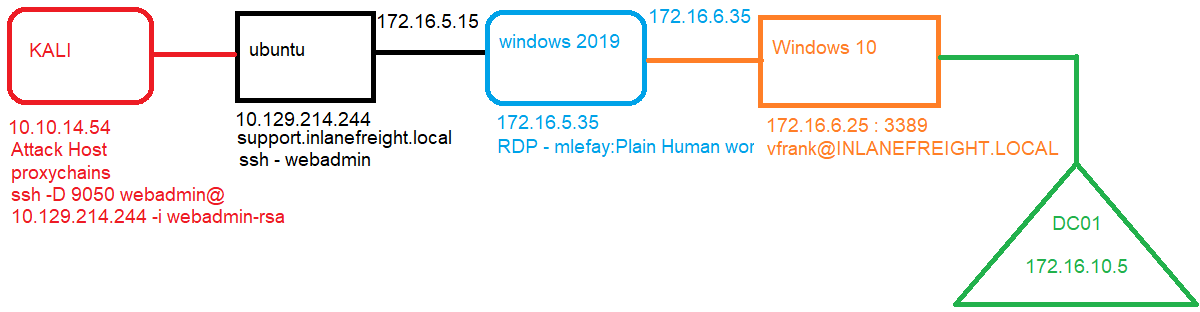
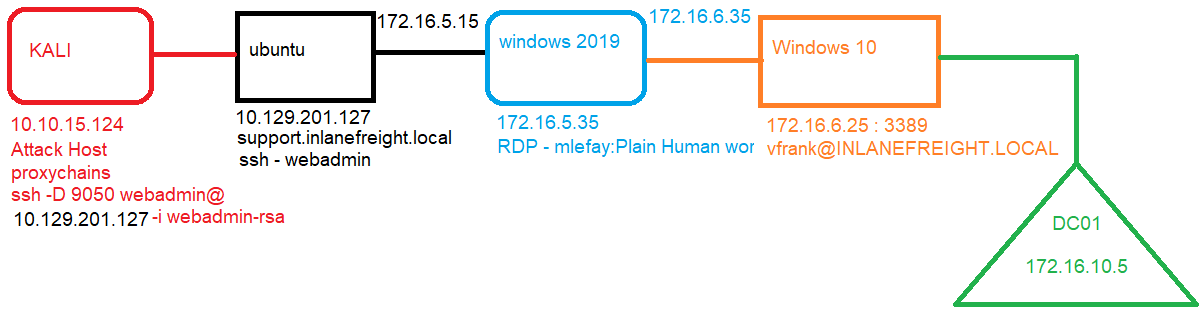
Pivot
Pivot

Changed region(s): [[0.185, 0.3462, 0.3083, 0.4038], [0.0, 0.6635, 0.1233, 0.7212], [0.0, 0.375, 0.1233, 0.4327]]

diff --git a/assessments/Pivoting Tunneling and Port Forwarding Skills Assessment.md b/assessments/Pivoting Tunneling and Port Forwarding Skills Assessment.md
@@ -20,6 +20,10 @@
 
 >Connecting Info `10.129.201.127` for the webshell on ` support.inlanefreight.local`.  
 
+![Pivot skills assessment webshell](/images/pivot-skills-assessment-webshell.png)  
+
+
+
 
 
 
